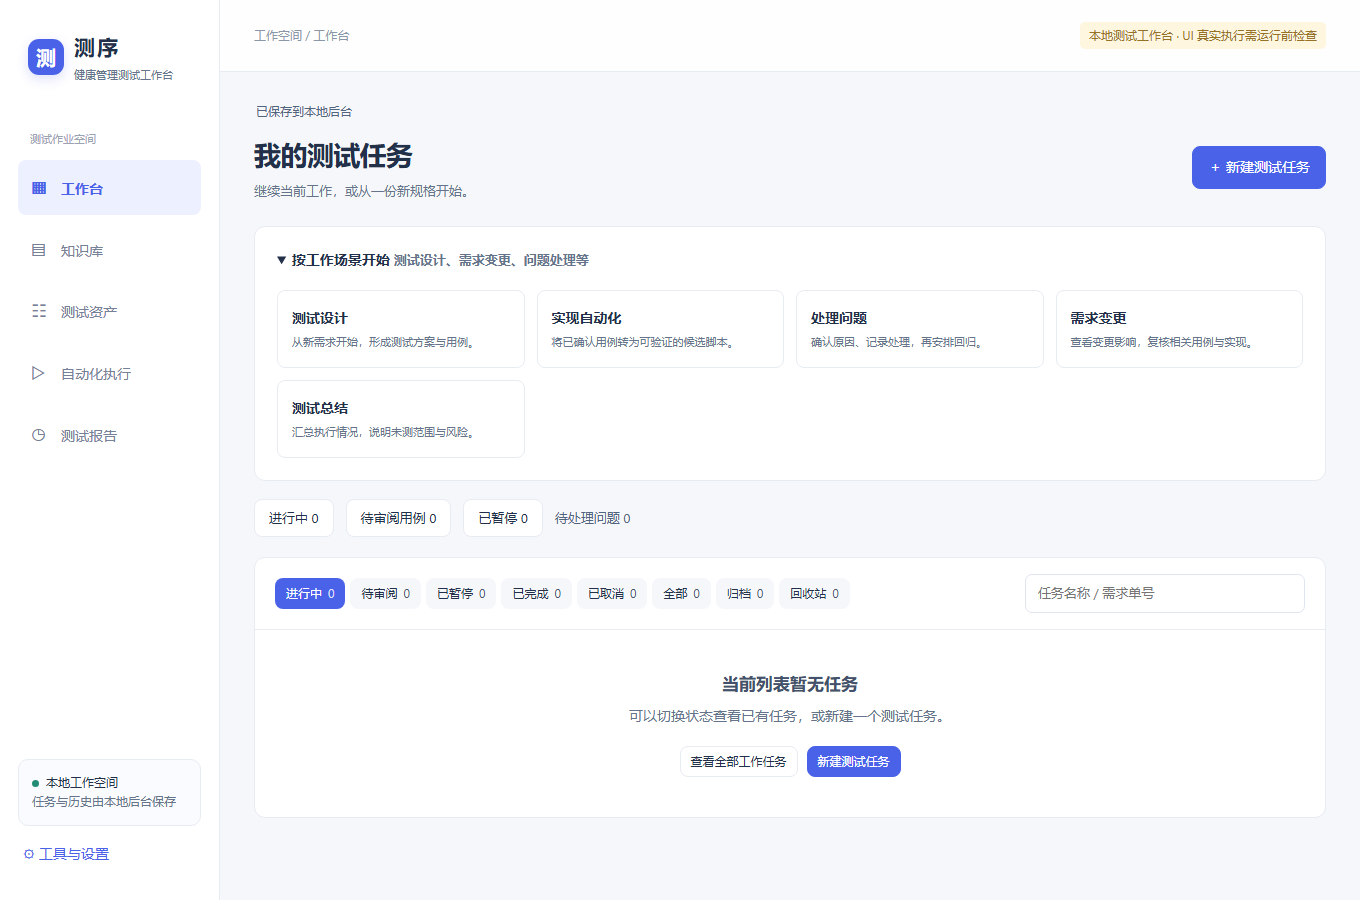
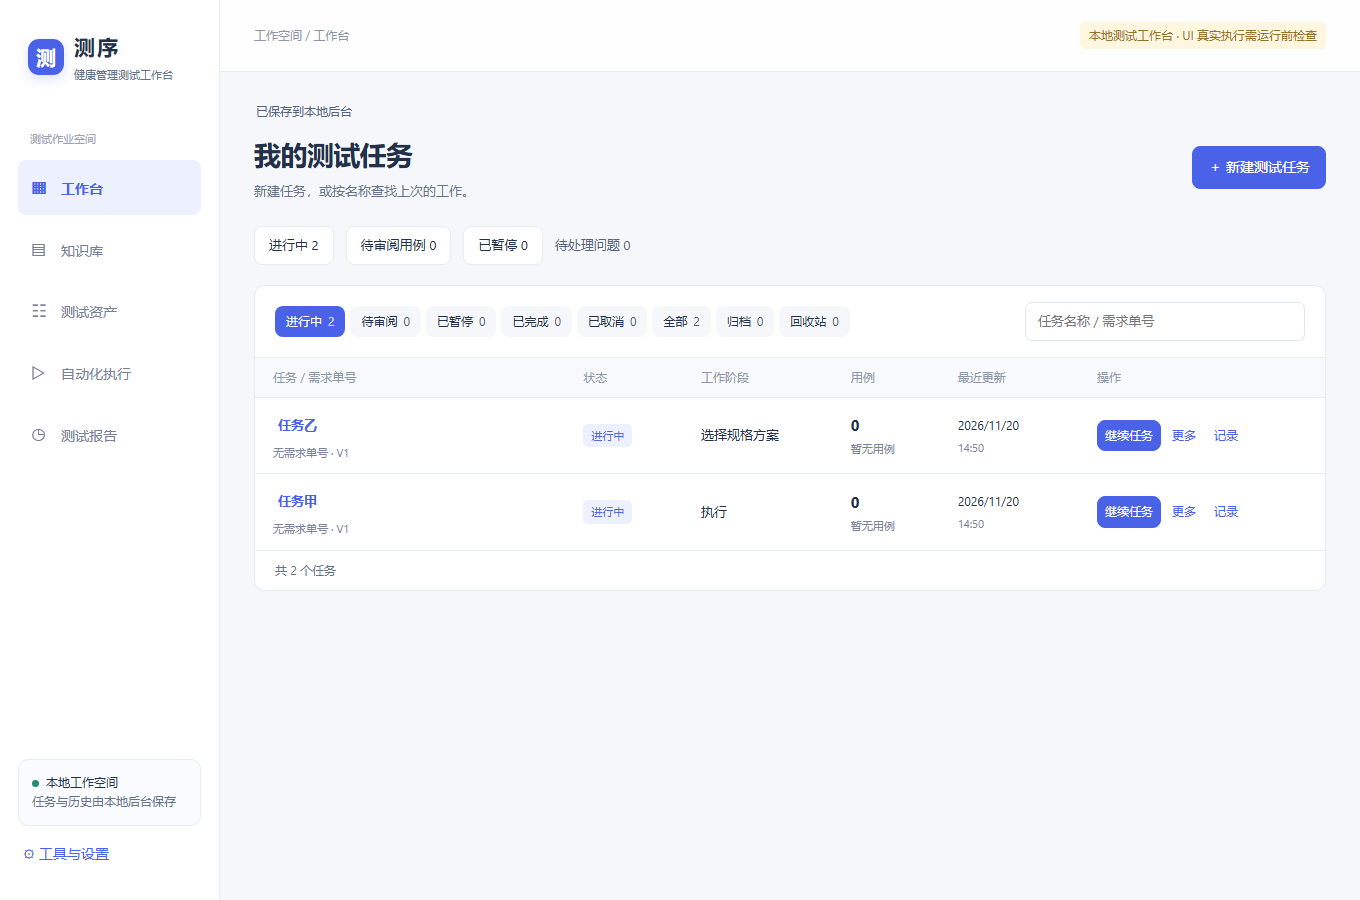
以命名任务组织首页和任务内工作导航

diff --git a/docs/test-workbench/demo/ux.js b/docs/test-workbench/demo/ux.js
@@ -20,11 +20,11 @@ function taskButtons(t){return taskActions(t).map(a=>`<button type="button" clas
 taskRows=function(){const items=data.tasks.filter(t=>uxMatches(t,taskFilter)&&(!taskSearch||(t.name+' '+(t.requirementNo||'')).toLowerCase().includes(taskSearch.toLowerCase())));
  if(!items.length)return `<div class="empty ux-empty"><h3>${taskSearch?'没有找到匹配的任务':taskFilter==='trash'?'回收站是空的':taskFilter==='archive'?'暂无归档任务':'当前列表暂无任务'}</h3><p>${taskSearch?'试试任务名称或需求单号，也可以清空搜索。':taskFilter==='trash'?'移入回收站的任务会出现在这里，可随时恢复。':'可以切换状态查看已有任务，或新建一个测试任务。'}</p><div class="actions">${taskSearch?btn('清空搜索','uxClearSearch','small'):btn('查看全部工作任务','taskFilter:all','small')}${!['trash','archive'].includes(taskFilter)?btn('新建测试任务','new','primary small'):''}</div></div>`;
  const trash=taskFilter==='trash';
- return `<div class="ux-task-table-wrap"><table class="ux-task-table"><thead><tr><th>任务 / 需求单号</th><th>${trash?'删除前状态':'状态'}</th><th>工作阶段</th><th>用例</th><th>${trash?'移入时间':'最近更新'}</th><th>操作</th></tr></thead><tbody>${items.map(t=>{const lc=taskLC(t),next=uxNext(t),pending=uxReviewCount(t),count=t.caseDesigner?.draft?.cases.length??t.cases.length,time=trash?[...(lc.history||[])].reverse().find(h=>h.action==='delete')?.time:lc.updatedAt,date=time?new Date(time):null;return `<tr><td><strong title="${esc(t.name)}">${esc(t.name)}</strong><small>${esc(t.requirementNo||'无需求单号')} · ${esc(t.version||'未指定版本')}</small></td><td>${badge(taskStatusNames[lc.status])}</td><td>${esc(tabs[t.activeStep]||'选择规格方案')}</td><td><b class="ux-case-count">${count}</b><small>${pending?pending+' 条待审阅':count?'已审阅':'暂无用例'}</small></td><td><span class="ux-task-time">${date&&!isNaN(date)?esc(date.toLocaleDateString('zh-CN')):'—'}</span><small>${date&&!isNaN(date)?esc(date.toLocaleTimeString('zh-CN',{hour:'2-digit',minute:'2-digit'})):''}</small></td><td><div class="ux-row-ops">${btn(next.label,next.action,taskEditable(t)?'primary small':'small')}${trash?btn('彻底删除','taskManage:purge:'+t.id,'link small danger-action'):btn('更多','uxTaskMenu:'+t.id,'link small')}${btn('记录','taskHistory:'+t.id,'link small')}</div></td></tr>`}).join('')}</tbody></table></div><div class="ux-task-total">共 ${items.length} 个任务${trash?' · 删除前状态仅供恢复参考':''}</div>`;
+ return `<div class="ux-task-table-wrap"><table class="ux-task-table"><thead><tr><th>任务 / 需求单号</th><th>${trash?'删除前状态':'状态'}</th><th>工作阶段</th><th>用例</th><th>${trash?'移入时间':'最近更新'}</th><th>操作</th></tr></thead><tbody>${items.map(t=>{const lc=taskLC(t),next=uxNext(t),pending=uxReviewCount(t),count=t.caseDesigner?.draft?.cases.length??t.cases.length,time=trash?[...(lc.history||[])].reverse().find(h=>h.action==='delete')?.time:lc.updatedAt,date=time?new Date(time):null;return `<tr><td>${trash?'<strong>'+esc(t.name)+'</strong>':btn(t.name,'open:'+t.id,'link task-name-link')}<small>${esc(t.requirementNo||'无需求单号')} · ${esc(t.version||'未指定版本')}</small></td><td>${badge(taskStatusNames[lc.status])}</td><td>${esc(tabs[t.activeStep]||'选择规格方案')}</td><td><b class="ux-case-count">${count}</b><small>${pending?pending+' 条待审阅':count?'已审阅':'暂无用例'}</small></td><td><span class="ux-task-time">${date&&!isNaN(date)?esc(date.toLocaleDateString('zh-CN')):'—'}</span><small>${date&&!isNaN(date)?esc(date.toLocaleTimeString('zh-CN',{hour:'2-digit',minute:'2-digit'})):''}</small></td><td><div class="ux-row-ops">${taskEditable(t)?btn('继续任务','open:'+t.id,'primary small'):btn(next.label,next.action,'small')}${trash?btn('彻底删除','taskManage:purge:'+t.id,'link small danger-action'):btn('更多','uxTaskMenu:'+t.id,'link small')}${btn('记录','taskHistory:'+t.id,'link small')}</div></td></tr>`}).join('')}</tbody></table></div><div class="ux-task-total">共 ${items.length} 个任务${trash?' · 删除前状态仅供恢复参考':''}</div>`;
 
 };
-home=function(){const active=data.tasks.filter(taskEditable),review=active.reduce((n,t)=>n+uxReviewCount(t),0);return title('我的测试任务','继续当前工作，或从一份新规格开始。',btn('＋ 新建测试任务','new','primary'))+
- `<details class="card pad ux-scenes" data-ux-open="scenes" ${(uxOpen.get('scenes')??true)?'open':''}><summary>按工作场景开始 <span class="subtitle">测试设计、需求变更、问题处理等</span></summary><div class="secondary-scenes">${Object.entries(journeys).filter(([k])=>!['regression','manual'].includes(k)).map(([k,j])=>`<button class="scene-mini" data-action="scenario:${k}"><div><b>${esc(j.name)}</b><small>${esc(j.desc)}</small></div></button>`).join('')}</div></details><div class="ux-metrics" aria-label="工作概况">${btn('进行中 '+active.length,'taskFilter:active','')}${btn('待审阅用例 '+review,'taskFilter:review','')}${btn('已暂停 '+data.tasks.filter(t=>uxMatches(t,'paused')).length,'taskFilter:paused','')}<span>待处理问题 ${active.flatMap(t=>t.issues).filter(i=>i.status!=='已关闭').length+(typeof executionOverview!=='undefined'?(executionOverview?.issues||[]).filter(i=>i.status!=='已关闭'&&active.some(t=>t.id===i.taskId)).length:0)}</span></div><section class="card ux-task-list"><div class="ux-list-tools"><label class="ux-search">查找任务<input id="taskSearch" placeholder="任务名称 / 需求单号" value="${esc(taskSearch)}" type="search"></label><div class="ux-filters" aria-label="任务状态筛选">${[['active','进行中'],['review','待审阅'],['paused','已暂停'],['completed','已完成'],['cancelled','已取消'],['all','全部'],['archive','归档'],['trash','回收站']].map(([k,n])=>`<button class="small ${taskFilter===k?'primary':''}" data-action="taskFilter:${k}" aria-pressed="${taskFilter===k}">${n}<span class="ux-count">${data.tasks.filter(t=>uxMatches(t,k)).length}</span></button>`).join('')}</div>${taskFilter==='trash'?'<p class="subtitle">恢复后保留原状态和记录；彻底删除不可恢复。正式用例和共享知识不受影响。</p>':''}</div><div id="taskRows">${taskRows()}</div></section>`;};
+home=function(){const active=data.tasks.filter(taskEditable),review=active.reduce((n,t)=>n+uxReviewCount(t),0);return title('我的测试任务','新建任务，或按名称查找上次的工作。',btn('＋ 新建测试任务','new','primary'))+
+ `<div class="ux-metrics" aria-label="工作概况">${btn('进行中 '+active.length,'taskFilter:active','')}${btn('待审阅用例 '+review,'taskFilter:review','')}${btn('已暂停 '+data.tasks.filter(t=>uxMatches(t,'paused')).length,'taskFilter:paused','')}<span>待处理问题 ${active.flatMap(t=>t.issues).filter(i=>i.status!=='已关闭').length+(typeof executionOverview!=='undefined'?(executionOverview?.issues||[]).filter(i=>i.status!=='已关闭'&&active.some(t=>t.id===i.taskId)).length:0)}</span></div><section class="card ux-task-list"><div class="ux-list-tools"><label class="ux-search">查找任务<input id="taskSearch" placeholder="任务名称 / 需求单号" value="${esc(taskSearch)}" type="search"></label><div class="ux-filters" aria-label="任务状态筛选">${[['active','进行中'],['review','待审阅'],['paused','已暂停'],['completed','已完成'],['cancelled','已取消'],['all','全部'],['archive','归档'],['trash','回收站']].map(([k,n])=>`<button class="small ${taskFilter===k?'primary':''}" data-action="taskFilter:${k}" aria-pressed="${taskFilter===k}">${n}<span class="ux-count">${data.tasks.filter(t=>uxMatches(t,k)).length}</span></button>`).join('')}</div>${taskFilter==='trash'?'<p class="subtitle">恢复后保留原状态和记录；彻底删除不可恢复。正式用例和共享知识不受影响。</p>':''}</div><div id="taskRows">${taskRows()}</div></section>`;};
 // Collapse detailed progress, retaining the current stage and failures in plain sight.
 const uxOriginalProgress=aiProgressPanel;
 aiProgressPanel=function(j,action){if(!j)return '';const html=uxOriginalProgress(j,action),key='progress-'+j.id;

diff --git a/docs/test-workbench/demo/automation-live.js b/docs/test-workbench/demo/automation-live.js
@@ -357,7 +357,7 @@ const lpActOld=act;
 act=function(action){const [name,arg,sub]=action.split(':');
  if(name==='editProductEnv')return editProductEnvironment();
  if(name==='generateScript')return openScriptDesign(arg);
- if(action==='scenario:automation'||name==='autoTask'){page='assets';abTab='published';render();toast('选择正式 API 或 UI 用例，点击「设计并生成脚本」');return}if(name==='laProduct'){laProduct=decodeURIComponent(arg);laSubproduct='';laPage=0;render();return}if(name==='laLayer'){laLayer=arg;laSubproduct='';laPage=0;render();return}if(name==='laPage'){laPage=Math.max(0,laPage+(arg==='next'?1:-1));render();return}if(name==='laReset'){laQuery='';laSubproduct='';laPage=0;render();return}if(name==='lpTab'){lpTab=arg;render();return}if(name==='lpRefresh'){lpEnvs=null;return lpLoad()}
+ if(name==='autoTask'){page='assets';abTab='published';render();toast('选择正式 API 或 UI 用例，点击「设计并生成脚本」');return}if(name==='laProduct'){laProduct=decodeURIComponent(arg);laSubproduct='';laPage=0;render();return}if(name==='laLayer'){laLayer=arg;laSubproduct='';laPage=0;render();return}if(name==='laPage'){laPage=Math.max(0,laPage+(arg==='next'?1:-1));render();return}if(name==='laReset'){laQuery='';laSubproduct='';laPage=0;render();return}if(name==='lpTab'){lpTab=arg;render();return}if(name==='lpRefresh'){lpEnvs=null;return lpLoad()}
  if(name==='lpType'){lpType=arg;lpPage=0;render();return}if(name==='lpPage'){lpPage=Math.max(0,lpPage+(arg==='next'?1:-1));render();return}
  if(name==='lpAssets'){page='assets';abTab='published';render();return}
  if(name==='lpSuiteNew')return lpSuiteDialog();if(name==='lpSuiteEdit')return lpSuiteDialog(arg);
@@ -399,7 +399,7 @@ render=function(){
   current.scrollTop=top;
   current.scrollLeft=left;
  }
- if(['automation','assets','reports'].includes(page)&&!lpData&&!lpBusy&&!lpError)setTimeout(lpLoad,0);if(page==='task'&&tab==='cases'&&!lpData&&!lpBusy&&!lpError)setTimeout(lpLoad,0);if($('#lpQuery'))$('#lpQuery').onchange=e=>{lpQuery=e.target.value;lpPage=0;render()};if($('#laQuery'))$('#laQuery').onchange=e=>{laQuery=e.target.value;laPage=0;render()};if($('#laSubproduct'))$('#laSubproduct').onchange=e=>{laSubproduct=e.target.value;laPage=0;render()};if($('#laSize'))$('#laSize').onchange=e=>{laSize=Number(e.target.value);laPage=0;render()};const header=$('header .demo');if(header)header.textContent='本地测试工作台 · UI 真实执行需运行前检查'};
+ if(['automation','assets','reports'].includes(page)&&!lpData&&!lpBusy&&!lpError)setTimeout(lpLoad,0);if(page==='task'&&(tab==='cases'||journey==='automation')&&!lpData&&!lpBusy&&!lpError)setTimeout(lpLoad,0);if($('#lpQuery'))$('#lpQuery').onchange=e=>{lpQuery=e.target.value;lpPage=0;render()};if($('#laQuery'))$('#laQuery').onchange=e=>{laQuery=e.target.value;laPage=0;render()};if($('#laSubproduct'))$('#laSubproduct').onchange=e=>{laSubproduct=e.target.value;laPage=0;render()};if($('#laSize'))$('#laSize').onchange=e=>{laSize=Number(e.target.value);laPage=0;render()};const header=$('header .demo');if(header)header.textContent='本地测试工作台 · UI 真实执行需运行前检查'};
 setInterval(()=>{if(!lpBusy&&(lpData?.runs.some(r=>['preparing','running','pausing','paused','cancelling'].includes(r.status))||lpEnvs?.environments?.some(e=>e.authOperation?.status==='running'))){if(lpEnvs?.environments?.some(e=>e.authOperation?.status==='running'))lpEnvs=null;lpLoad(Boolean(lpEnvs))}},2000);
 
 // Admission is separate from linking an existing formal case to a UI script.
@@ -622,4 +622,17 @@ function editProductEnvironment() {
       return false;
     });
   }).catch(e=>toast(e.message));
+}
+
+function taskScriptPanel(t) {
+  const assets = lpList('assets').filter(a => {
+    const c = lpContent(a);
+    return c.source?.taskId === t.id && ['API','UI'].includes(c.layer);
+  });
+  const rows = assets.map(a => {
+    const c = lpContent(a);
+    return `<div class="list-item row"><span>${esc(c.title)} · ${esc(c.layer)} · v${a.revision}</span>${btn('设计并生成脚本','generateScript:'+a.id,'small')}</div>`;
+  }).join('');
+  const next = caseAccepted(t) ? btn('发布设计用例','lpPublish','small') : btn('进入测试设计','direct:design:'+t.id,'small');
+  return `<section class="card pad"><h2>当前任务的自动化用例</h2>${rows || '<p>确认并发布本任务的 API 或 UI 用例后，即可设计脚本。</p>'}<div class="actions">${next}${btn('打开正式用例库','autoTask:'+t.id,'small')}</div></section>`;
 }

diff --git a/docs/test-workbench/demo/scenarios.js b/docs/test-workbench/demo/scenarios.js
@@ -2,7 +2,7 @@
 const journeys = {
   design: {name:'测试设计',icon:'✎',desc:'从新需求开始，形成测试方案与用例。',steps:['requirements','plan','cases'],output:'已审阅用例与待确认问题',hint:'只做设计也可以结束，不必立即执行。'},
   manual: {name:'手工执行',icon:'☑',desc:'已有用例，直接操作并记录测试结果。',steps:['execution','summary'],output:'手工结果、证据与执行汇总',hint:'选择用例，录入实际结果；失败或阻塞时记录问题。'},
-  automation: {name:'实现自动化',icon:'⌘',desc:'将已确认用例转为可验证的候选脚本。',steps:['cases','execution'],output:'已验证实现或明确能力缺口',hint:'用例确认 → 生成候选 → 检查与验证，三种状态分别记录。'},
+  automation: {name:'实现自动化',icon:'⌘',desc:'将已确认用例转为可验证的候选脚本。',steps:['execution'],output:'生成并绑定本任务的测试脚本',hint:'选择已发布用例，设计并审阅脚本。'},
   regression: {name:'自动化回归',icon:'▷',desc:'选择已有自动化，运行本机或 CI 回归。',steps:['execution','summary'],output:'模拟运行记录与汇总',hint:'只运行已确认、已验证的示例；本 Demo 不执行真实脚本。'},
   issues: {name:'处理问题',icon:'⚑',desc:'确认原因、记录处理，再安排回归。',steps:['issues','execution','summary'],output:'问题处理与回归记录',hint:'可以保留未解决问题，不强制关闭，也不改写历史结果。'},
   change: {name:'需求变更',icon:'↻',desc:'查看变更影响，复核相关用例与实现。',steps:['changes','cases','execution','summary'],output:'变更记录、待复核资产与回归结果',hint:'明确选择受影响用例。接受变更后，相关用例必须重新确认。'},
@@ -41,10 +41,13 @@ function taskPage(){
   if(!j.steps.includes(tab))tab=j.steps[0];
   const idx=j.steps.indexOf(tab);
   return `<button class="link small" data-nav="home">← 返回工作台</button>`+
-    title(j.name,`${esc(t.name)} · 需求单号：${esc(t.requirementNo||'未填写')} · ${esc(t.version)} · ${t.id}`,btn('切换场景','switchScene','small'))+
+    title(esc(t.name),`目标版本 ${esc(t.version||'待填写')}${t.requirementNo?' · 需求 '+esc(t.requirementNo):''}`)+
+    `<nav class="task-sections" aria-label="任务内工作">${['design','automation','issues','change','summary'].map(key=>
+      `<button type="button" aria-current="${journey===key?'page':'false'}" data-action="direct:${key}:${esc(t.id)}">${esc(journeys[key].name)}</button>`
+    ).join('')}</nav>`+
     `<div class="journey-banner"><div><b>本次目标：${j.output}</b><p class="subtitle">${j.hint}</p></div>${badge(t.stage)}</div>`+
     `<div class="journey-steps" role="tablist">${j.steps.map((s,i)=>`<button role="tab" aria-selected="${tab===s}" data-tab="${s}" class="${s===tab?'active':''}"><span>${i+1}</span>${stepName(s)}</button>`).join('')}</div>`+
-    ({sources,requirements,plan,cases,execution,issues,summary,changes}[tab])()+
+    (journey==='automation'?taskScriptPanel(t):({sources,requirements,plan,cases,execution,issues,summary,changes}[tab])())+
     `<div class="journey-footer"><span class="subtitle">步骤 ${idx+1} / ${j.steps.length} · 可保存后稍后继续</span><div class="actions">${idx?btn('← 上一步','step:'+j.steps[idx-1],''):''}${idx<j.steps.length-1?btn('下一步：'+stepName(j.steps[idx+1]),'step:'+j.steps[idx+1],'primary'):btn('保存并返回工作台','finishScene','primary')}</div></div>`;
 }
 

diff --git a/docs/test-workbench/demo/execution.js b/docs/test-workbench/demo/execution.js
@@ -130,7 +130,7 @@ render=function(){automationRender();if(page==='automation'){
  Object.entries(fields).forEach(([id,set])=>{if($('#'+id))$('#'+id).onchange=e=>{set(e.target.value);autoPicked.clear();if(id==='autoSource')autoFeature='全部特性';render()}});
  [['autoEnvironment',v=>autoEnvironment=v],['autoVersion',v=>autoVersion=v],['autoMachine',v=>autoMachine=v],['autoTrigger',v=>autoTrigger=v]].forEach(([id,set])=>{if($('#'+id))$('#'+id).oninput=e=>set(e.target.value)});
  $$('[data-auto-case]').forEach(el=>el.onchange=()=>{el.checked?autoPicked.add(el.dataset.autoCase):autoPicked.delete(el.dataset.autoCase);render()});
- }if(page==='task'&&task().id)$('#content').insertAdjacentHTML('beforeend',`<div class="card pad"><h3>验证当前任务的特性资产</h3><p>将当前任务用例带入独立自动化执行页，检查脚本准入和执行范围。</p>${btn('验证此特性','autoTask:'+taskId,'small')}</div>`);
+ }
 };
 const autoPreviousJourney=enterJourney;
 enterJourney=function(key,id,part){if(key==='regression'){return act('autoTask:'+id)}return autoPreviousJourney(key,id,part)};

diff --git a/docs/test-workbench/demo/ux.css b/docs/test-workbench/demo/ux.css
@@ -98,3 +98,8 @@
 }
 
 .environment-login .env-scan-link { display: inline-flex; align-items: center; padding: 5px 10px; border: 1px solid #dde3ed; border-radius: 6px; background: white; color: inherit; text-decoration: none; }
+
+.task-sections {display:flex;flex-wrap:wrap;gap:.35rem;margin:0 0 1rem;padding-bottom:.55rem;border-bottom:1px solid #d7dee8}
+.task-sections button {border:0;background:transparent;color:#475569;padding:.5rem .85rem}
+.task-sections button[aria-current="page"] {background:#e8efff;color:#1747a5;font-weight:650}
+.task-name-link {font-weight:650;text-align:left;overflow-wrap:anywhere}

diff --git a/README.md b/README.md
@@ -4,7 +4,7 @@
 
 **第一次使用**可以直接启动空白工作台，或运行随仓库提供的合成服务联调测试。**接入真实产品**时，再填写测试地址、接口路径和页面标题。仓库目前包含 API 健康检查和 UI 首页冒烟两个产品用例。建档、指标录入、评估和随访的业务规则仍待确认。[产品接入与验收清单](docs/acceptance.md)
 
-![工作台首页，可从这里新建测试任务、进入实现自动化或查看报告](docs/images/workbench-home.png)
+![工作台首页，可新建命名任务、搜索已有任务或继续上次工作](docs/images/workbench-home.png)
 
 ## 在新电脑启动
 
@@ -44,7 +44,7 @@ flowchart TD
 | --- | --- |
 | 从一份新需求开始 | 在首页新建任务，导入规格。依次审阅需求疑问、覆盖方案和候选用例，确认后纳入正式用例库。AI 设计使用本机已安装并登录的 Codex 或 Claude CLI，选中的资料会提交给所选模型服务。 |
 | 从现有脚本开始 | 在测试资产中刷新脚本目录，将扫描到的 API 或 UI 冒烟用例纳入正式库。已有绑定可直接用于组套。 |
-| 把设计转成代码 | 首页选择「实现自动化」，在正式用例库找到目标用例，点击「设计并生成脚本」。按下面的示例填写表单。此步骤通过本地模板生成源码。 |
+| 把设计转成代码 | 从首页打开已命名的任务，在任务内选择「实现自动化」，找到该任务已发布的用例并点击「设计并生成脚本」。跨任务查找资产可通过侧栏「测试资产」进入正式用例库。按下面的示例填写表单。此步骤通过本地模板生成源码。 |
 | 准备执行 | 在「自动化执行 → 环境」配置测试环境，在套件中选择同一产品、同一类型的用例版本。可直接运行套件，也可通过执行计划复用版本和环境。 |
 | 复核结果 | 在运行详情或「测试报告」中核对用例、环境、结果与耗时。失败或未执行项可从原运行发起重跑。手工批次另行记录执行人填写的实际结果。 |
 
